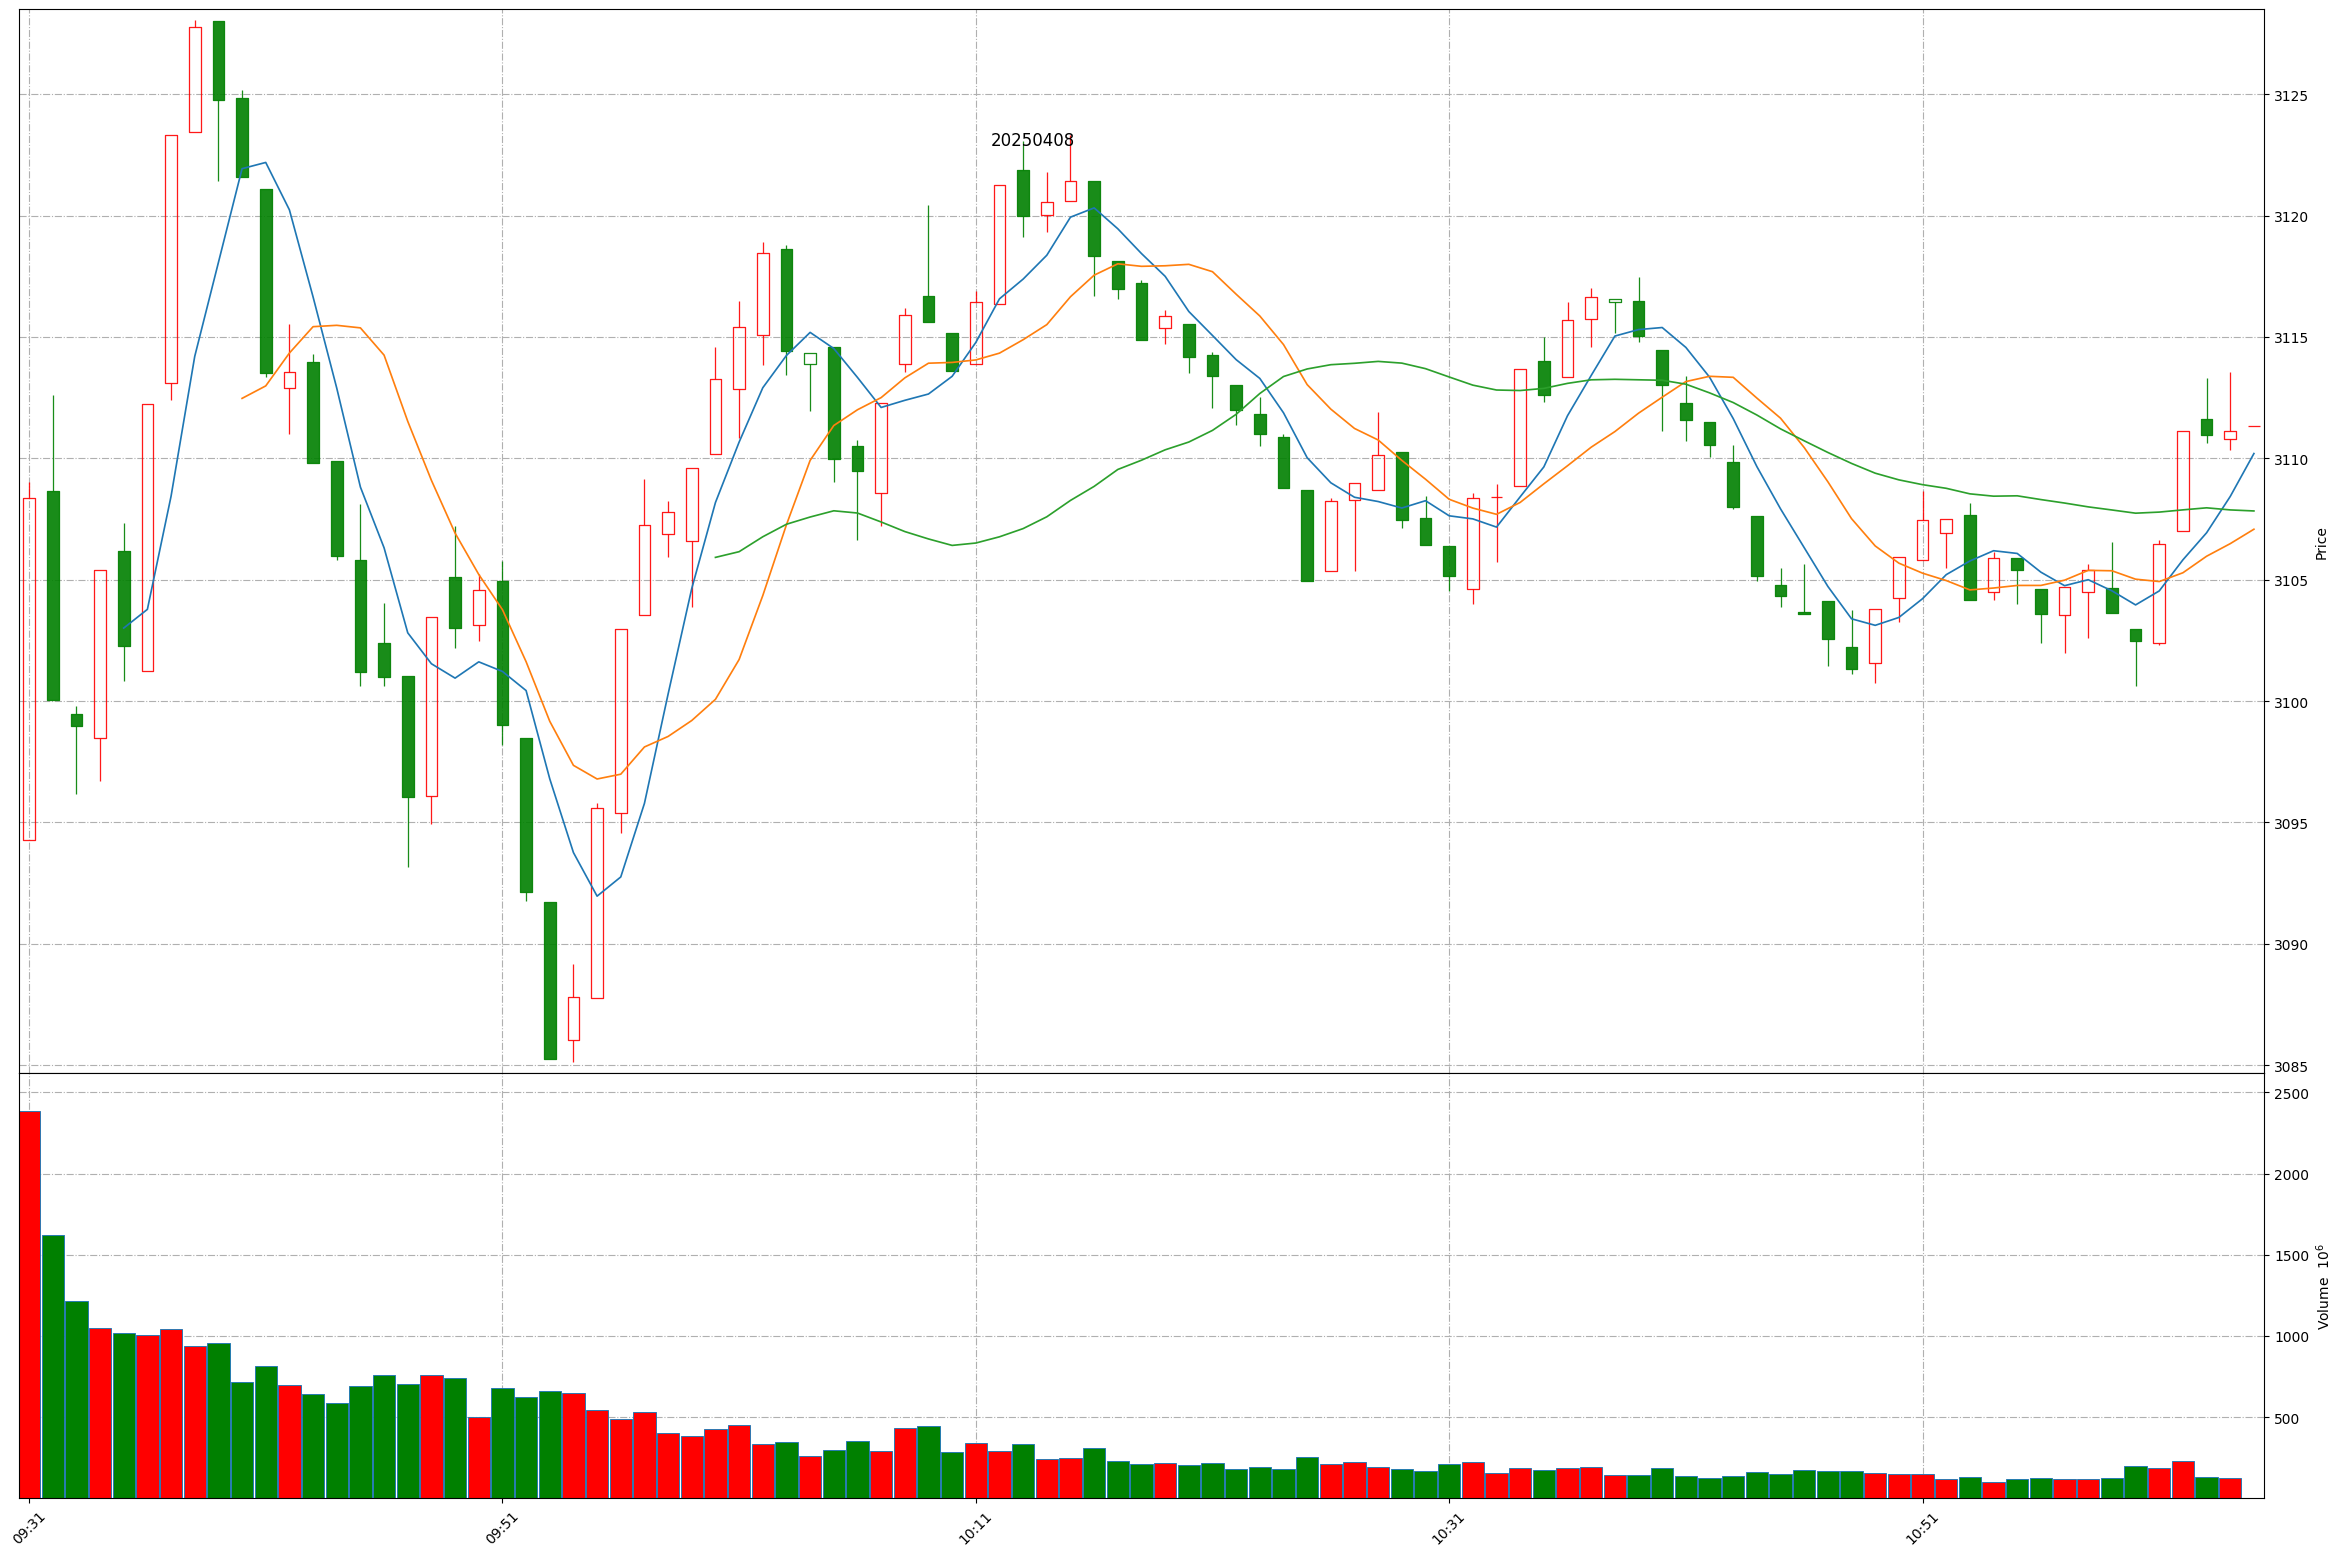
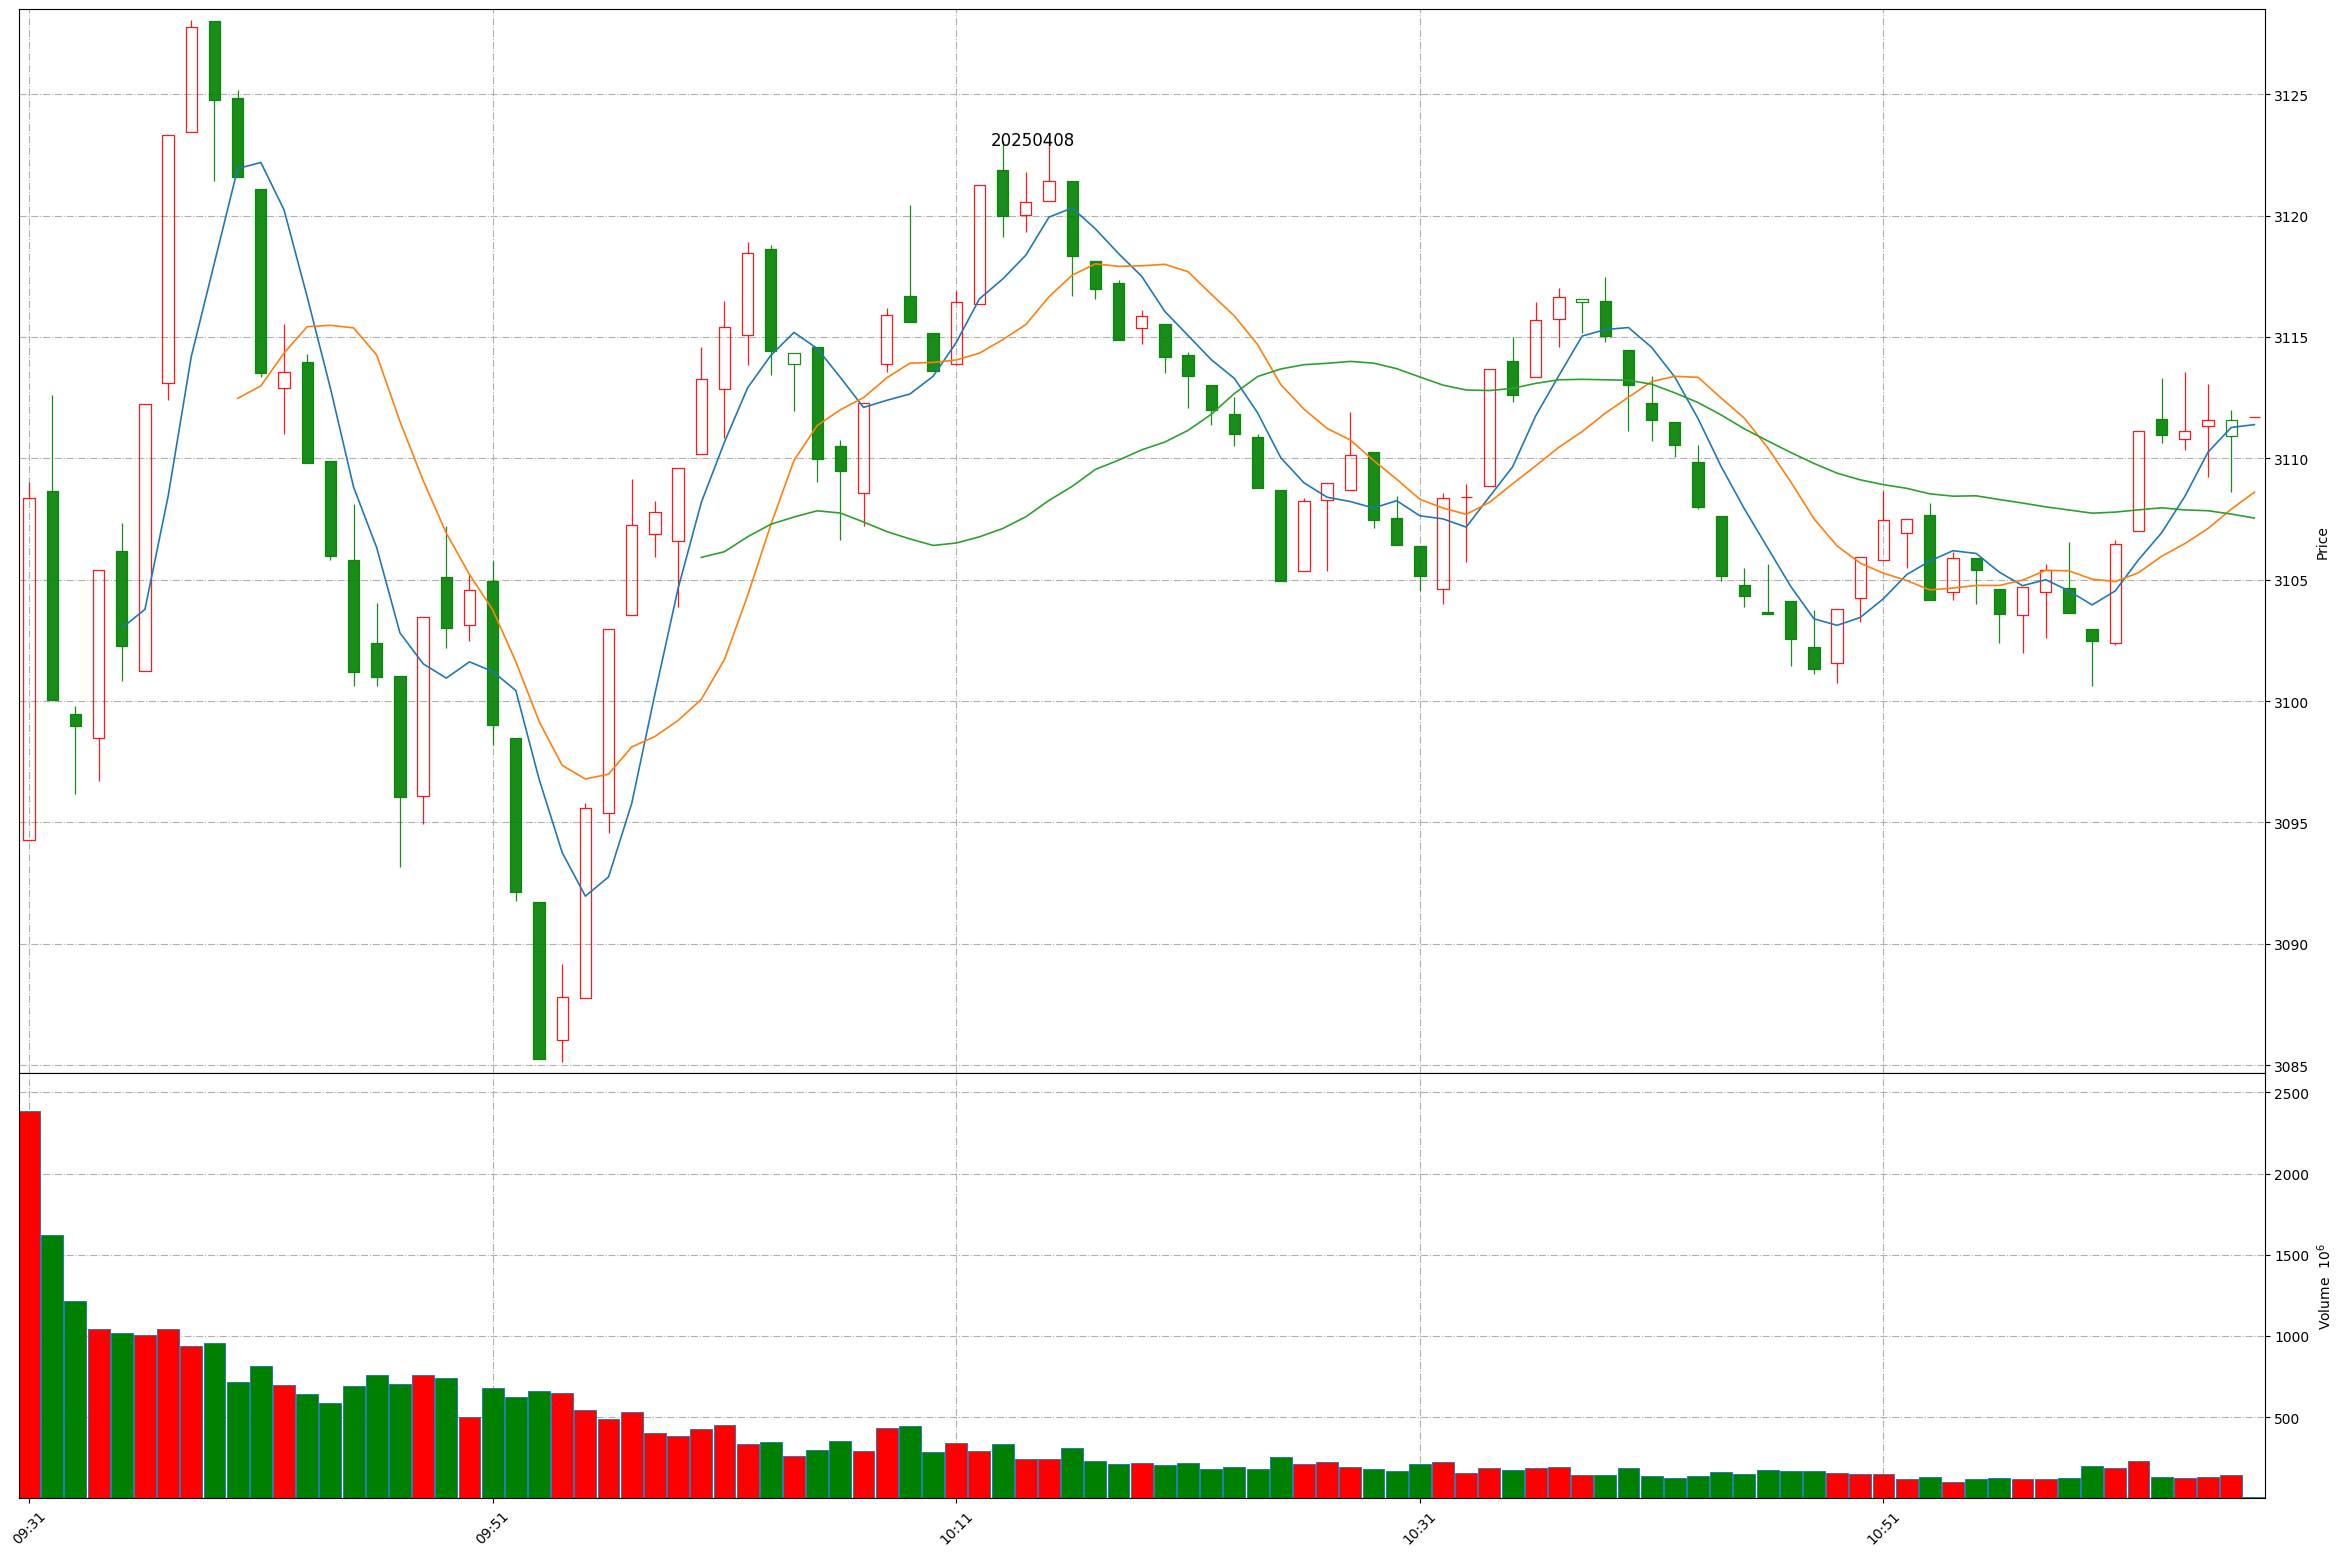
Github action update at 2025-04-08 11:06:27.

diff --git a/README.md b/README.md
@@ -1,11 +1,11 @@
 
 # Daily-A-share-market-quotes 每日 A 股指数（5min 更新）- 20250408
 
-### 上证指数 20250408 11:4
+### 上证指数 20250408 11:6
 ![](./fig/2025/4/20250408-sh000001.png)
 
-### 深证成指 20250408 11:4
+### 深证成指 20250408 11:6
 ![](./fig/2025/4/20250408-sz399001.png)
 
-### 北证50 20250408 11:4
+### 北证50 20250408 11:6
 ![](./fig/2025/4/20250408-bj899050.png)
